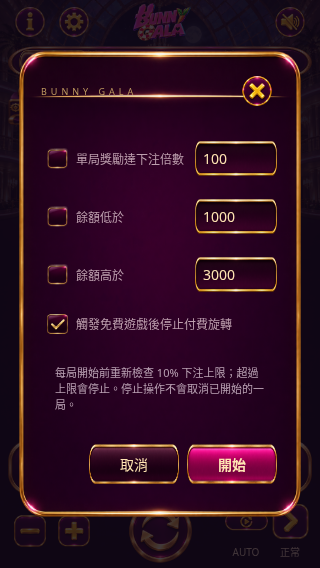
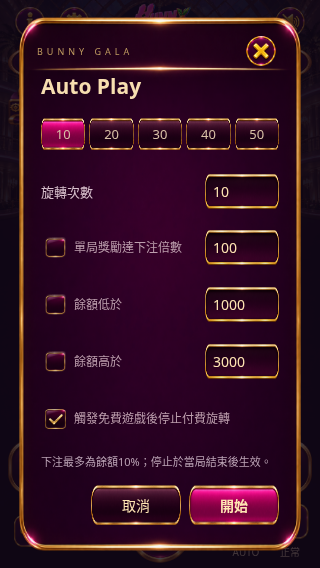
Fit Auto Play settings and actions in one portrait screen

Changed region(s): [[0.0625, 0.0299, 0.9375, 0.7482], [0.0625, 0.7782, 0.9375, 0.9877]]

diff --git a/super-ace-prototype/dist/app.js b/super-ace-prototype/dist/app.js
@@ -18,7 +18,7 @@ function fitAmounts(){for(const amount of $$('.balance-bar strong')){amount.styl
 function update(){document.documentElement.style.setProperty('--motion-scale',durations[speed]);$('#speed').dataset.speed=String(speed);$('#sound').setAttribute('aria-pressed',String(soundOn));const tiers=allowedBets(balance);if(!busy&&!free&&bet>maxBet(balance))bet=tiers.at(-1)||1;$('#balance').textContent=fmt(balance);$('#bet').textContent=fmt(bet);$('#win').textContent=fmt(lastWin);fitAmounts();$('#spin').disabled=busy||free>0||bet>maxBet(balance);$('#spin').classList.toggle('busy',busy);$('#plus').disabled=busy||free>0;$('#minus').disabled=busy||free>0;$('#auto').classList.toggle('on',!!auto);$('#auto small').textContent=auto?String(auto.left):'AUTO';$('#auto').setAttribute('aria-label',auto?'停止自動遊戲':'自動遊戲設定');$('#speed small').textContent=['正常','快速','極速'][speed];$('#speed').setAttribute('aria-label','切換遊戲速度，目前'+['正常','快速','極速'][speed]);$('#speed').classList.toggle('on',speed>0);$('#freePill').hidden=!free;$('#freePill').textContent=`免費 ${free} 次`;$('#modeLabel').textContent=free?'THE CARROT CELEBRATION':'LET THE CARROTS FALL';$('#freeLabel').textContent=free?'FREE GAME · 金色時刻':'1024 WAYS · 金牌連鎖'}
 function setMultiplier(step,isFree){const vals=isFree?FREE_MULTIPLIERS:BASE_MULTIPLIERS;$('#multipliers').innerHTML=vals.map((v,i)=>`<span class="${i===Math.min(step,3)?'active':''}">×${v}</span>`).join('')}
 function save(){localStorage.setItem('gala-carrot-v1',JSON.stringify({balance}))}
-function openModal(html){$('#modalContent').innerHTML=html;if(!$('#modal').open)$('#modal').showModal()}
+function openModal(html){$('#modal').classList.remove('auto-modal');$('#modalContent').innerHTML=html;if(!$('#modal').open)$('#modal').showModal()}
 function close(){if(featureResolver){const r=featureResolver;featureResolver=null;r()}$('#modal').close()}
 $('#closeModal').onclick=close;$('#modal').addEventListener('cancel',()=>{if(featureResolver){const r=featureResolver;featureResolver=null;r()}});$('#modal').addEventListener('click',e=>{if(e.target===$('#modal'))close()});
 function feature(n,extra=false){return new Promise(resolve=>{featureResolver=resolve;openModal(`<div class="feature-carrots">${[1,2,3].map(()=>'<img src="assets/art/carrot-bonus.png" alt="CARROT">').join('')}</div><div class="feature-title">${extra?'＋'+n:n} FREE SPINS</div><p style="text-align:center">${extra?'金蘿蔔再度登場，免費次數已追加。':'三個 CARROT，開啟你的金色時刻。'}<br>免費遊戲倍率：×2、×4、×6、×10</p><div class="btn-row"><button class="btn primary" id="featureGo">${extra?'繼續':'開始免費遊戲'}</button></div>`);$('#featureGo').onclick=close})}
@@ -52,7 +52,7 @@ if(free>0)setTimeout(()=>spin(),400*durations[speed]);else if(auto&&!stopRequest
 $('#spin').onclick=()=>spin();$('#speed').onclick=()=>{speed=(speed+1)%3;update();toast(['正常速度','快速模式','極速模式'][speed]);tone(500+speed*200)};
 function adjust(d){if(busy||free)return;const tiers=allowedBets(balance);let i=tiers.indexOf(bet);let next=tiers[Math.max(0,Math.min(tiers.length-1,i+d))];if(!next){toast('蘿蔔不足以支持最低下注');return}if(d>0&&next===bet)toast(`最高下注 ${fmt(maxBet(balance))} 蘿蔔（餘額的 10%）`);bet=next;update()}
 $('#minus').onclick=()=>adjust(-1);$('#plus').onclick=()=>adjust(1);$('#sound').onclick=()=>{soundOn=!soundOn;$('#sound').textContent=soundOn?'♫':'♩';$('#sound').setAttribute('aria-pressed',String(soundOn));tone();toast(soundOn?'音效開啟':'音效關閉')};
-$('#auto').onclick=()=>{if(auto){auto=null;stopRequested=true;update();toast('本局完成後停止自動旋轉');return}if(busy||free){toast('請等待本局結束');return}openModal(`<h2>Auto Play</h2><p>設定連續旋轉次數及停止條件。</p><div class="chips">${[10,20,30,40,50].map(n=>`<button data-spins="${n}" class="${n===10?'selected':''}">${n}</button>`).join('')}</div><div class="form-row"><span>旋轉次數</span><input id="autoCount" aria-label="自動旋轉次數" type="number" value="10" min="1" max="500"></div><div class="form-row"><label><input id="ratioOn" type="checkbox">單局獎勵達下注倍數</label><input id="ratioVal" aria-label="單局獎勵倍數停止上限" type="number" value="100" min="1"></div><div class="form-row"><label><input id="lowerOn" type="checkbox">餘額低於</label><input id="lowerVal" aria-label="蘿蔔餘額下限" type="number" value="${Math.floor(balance*.5)}" min="0"></div><div class="form-row"><label><input id="upperOn" type="checkbox">餘額高於</label><input id="upperVal" aria-label="蘿蔔餘額上限" type="number" value="${Math.ceil(balance*1.5)}" min="0"></div><div class="form-row"><label><input id="featureOn" type="checkbox" checked>觸發免費遊戲後停止付費旋轉</label></div><div class="modal-note">每局開始前重新檢查 10% 下注上限；超過上限會停止。停止操作不會取消已開始的一局。</div><div class="btn-row"><button class="btn" id="autoCancel">取消</button><button class="btn primary" id="autoStart">開始</button></div>`);$$('[data-spins]').forEach(b=>b.onclick=()=>{$('#autoCount').value=b.dataset.spins;$$('[data-spins]').forEach(n=>n.classList.toggle('selected',n===b))});$('#autoCancel').onclick=close;$('#autoStart').onclick=()=>{const count=Number($('#autoCount').value);if(!Number.isInteger(count)||count<1||count>500){toast('請輸入 1–500 次');return}const num=s=>Number($(s).value);if(['#ratioVal','#lowerVal','#upperVal'].some(s=>!Number.isFinite(num(s))||num(s)<0)){toast('停止條件請輸入有效數值');return}auto={left:count,ratio:$('#ratioOn').checked?num('#ratioVal'):Infinity,lower:$('#lowerOn').checked?num('#lowerVal'):-Infinity,upper:$('#upperOn').checked?num('#upperVal'):Infinity,onFeature:$('#featureOn').checked};if(auto.lower>=auto.upper){toast('下限須低於上限');return}close();spin()}};
+$('#auto').onclick=()=>{if(auto){auto=null;stopRequested=true;update();toast('本局完成後停止自動旋轉');return}if(busy||free){toast('請等待本局結束');return}openModal(`<h2>Auto Play</h2><p>設定連續旋轉次數及停止條件。</p><div class="chips">${[10,20,30,40,50].map(n=>`<button data-spins="${n}" class="${n===10?'selected':''}">${n}</button>`).join('')}</div><div class="form-row"><span>旋轉次數</span><input id="autoCount" aria-label="自動旋轉次數" type="number" value="10" min="1" max="500"></div><div class="form-row"><label><input id="ratioOn" type="checkbox">單局獎勵達下注倍數</label><input id="ratioVal" aria-label="單局獎勵倍數停止上限" type="number" value="100" min="1"></div><div class="form-row"><label><input id="lowerOn" type="checkbox">餘額低於</label><input id="lowerVal" aria-label="蘿蔔餘額下限" type="number" value="${Math.floor(balance*.5)}" min="0"></div><div class="form-row"><label><input id="upperOn" type="checkbox">餘額高於</label><input id="upperVal" aria-label="蘿蔔餘額上限" type="number" value="${Math.ceil(balance*1.5)}" min="0"></div><div class="form-row"><label><input id="featureOn" type="checkbox" checked>觸發免費遊戲後停止付費旋轉</label></div><div class="modal-note">下注最多為餘額10%；停止於當局結束後生效。</div><div class="btn-row"><button class="btn" id="autoCancel">取消</button><button class="btn primary" id="autoStart">開始</button></div>`);$('#modal').classList.add('auto-modal');$$('[data-spins]').forEach(b=>b.onclick=()=>{$('#autoCount').value=b.dataset.spins;$$('[data-spins]').forEach(n=>n.classList.toggle('selected',n===b))});$('#autoCancel').onclick=close;$('#autoStart').onclick=()=>{const count=Number($('#autoCount').value);if(!Number.isInteger(count)||count<1||count>500){toast('請輸入 1–500 次');return}const num=s=>Number($(s).value);if(['#ratioVal','#lowerVal','#upperVal'].some(s=>!Number.isFinite(num(s))||num(s)<0)){toast('停止條件請輸入有效數值');return}auto={left:count,ratio:$('#ratioOn').checked?num('#ratioVal'):Infinity,lower:$('#lowerOn').checked?num('#lowerVal'):-Infinity,upper:$('#upperOn').checked?num('#upperVal'):Infinity,onFeature:$('#featureOn').checked};if(auto.lower>=auto.upper){toast('下限須低於上限');return}close();spin()}};
 const rules=`<h3>怎樣中獎？</h3><p>盤面為 5 列 × 4 行，共 1024 ways。相同符號由最左列開始，連續出現在至少 3 列即可中獎，不需要同一行。各列可用位置數相乘，就是中獎 ways。</p><h3>金牌及 WILD</h3><p>金牌只會出現在第 2–4 列。金牌參與中獎後轉成天使或惡魔 WILD。WILD 可替代普通符號，不能替代 CARROT。惡魔會將第 2–5 列的 1–4 個合資格普通牌位轉為惡魔 WILD；不取代 CARROT 或已有 WILD。</p><h3>消除與倍率</h3><p>中獎普通牌消除，新牌由上方落入原空位。未中獎牌留在原位。普通遊戲倍率依序 ×1、×2、×3、×5；下一次付費旋轉重置。</p><h3>CARROT 與免費遊戲</h3><p>同一盤面有 3 個或以上 CARROT，獲得 10 次免費遊戲；免費遊戲中再出現 3 個或以上，加 5 次。免費倍率為 ×2、×4、×6、×10。同一次旋轉只發放一次 CARROT 獎勵，避免保留符號重複觸發。</p><h3>蘿蔔與下注</h3><p>每次付費下注最多為當時餘額的 10%。免費遊戲沿用觸發局下注額，不扣蘿蔔。Auto 每次開始前重新檢查上限。</p><p class="modal-note">私人試玩版：測試蘿蔔只保存在此瀏覽器，不能充值、兌現或轉移。隨機權重及賠付表未作商用數學校準；不代表 JILI 原版的 RTP 或派彩分佈。</p>`;
 function help(tab='rules'){openModal(`<h2>玩法與計算</h2><div class="tabs"><button id="rulesTab" class="${tab==='rules'?'active':''}">玩法</button><button id="payTab" class="${tab==='pay'?'active':''}">賠付與例子</button></div>${tab==='rules'?rules:`<p class="modal-note">以下為目前試玩參考表，尚未確認為 JILI 官方遊戲內賠付表。數值以本版本下注單位計算，不宣稱精確復刻。</p><table><thead><tr><th>符號</th><th>3列</th><th>4列</th><th>5列</th></tr></thead><tbody>${Object.entries(DEFAULT_PAYTABLE).map(([s,v])=>`<tr><td>${suits[s]||s}</td>${v.map(n=>`<td>×${n}</td>`).join('')}</tr>`).join('')}</tbody></table><h3>計算方法</h3><p>同符號獎勵＝賠付值 × 中獎 ways × 下注額 × 當前倍率。多種符號中獎分別計算再相加，金額以兩位小數記錄。</p><p>例：下注 20、A 連續 3 列各有 1、2、1 個可用位置，ways＝1×2×1＝2。當前倍率 ×2，獎勵＝0.5×2×20×2＝40 蘿蔔。</p><p>參考：<a href="https://jiligames.com/PlusIntro/49?showGame=false" target="_blank" rel="noopener">JILI 原版介紹</a>。</p>`}<div class="btn-row"><button class="btn" id="replayTutorial">重看教學</button><button class="btn primary" id="helpDone">明白</button></div>`);$('#rulesTab').onclick=()=>help('rules');$('#payTab').onclick=()=>help('pay');$('#helpDone').onclick=close;$('#replayTutorial').onclick=()=>tutorial(0)}
 $('#help').onclick=()=>help();$('#settings').onclick=()=>{openModal(`<h2>你的遊戲節奏</h2><p>隨時調整速度，派牌結果不會因此改變。</p><div class="chips">${['正常','快速','極速'].map((s,i)=>`<button data-speed="${i}" class="${i===speed?'selected':''}">${s}</button>`).join('')}</div><div class="form-row"><label><input type="checkbox" id="soundCheck" ${soundOn?'checked':''}>遊戲音效</label></div><p class="modal-note">下注最多為蘿蔔餘額的10%。試玩餘額保存在此瀏覽器。</p><div class="btn-row"><button class="btn" id="resetTestBalance">重設蘿蔔</button><button class="btn primary" id="settingsDone">完成</button></div>`);$$('[data-speed]').forEach(b=>b.onclick=()=>{speed=Number(b.dataset.speed);$$('[data-speed]').forEach(n=>n.classList.toggle('selected',n===b));update()});$('#soundCheck').onchange=e=>{soundOn=e.target.checked;update();tone()};$('#settingsDone').onclick=close;$('#resetTestBalance').onclick=resetPlaytest};

diff --git a/super-ace-prototype/dist/portrait.css b/super-ace-prototype/dist/portrait.css
@@ -114,3 +114,17 @@ table{font-size:12px}th,td{padding:8px 4px}
 .reward-amount{display:flex;align-items:center;justify-content:center;gap:6px;text-align:center;font-size:clamp(22px,7vw,32px);color:#f8dba2;font-variant-numeric:tabular-nums;overflow-wrap:anywhere}
 .reward-amount .currency-inline{flex-shrink:0}
 .chips button.selected,.tabs button.active{background-repeat:no-repeat;background-position:center}
+/* Auto settings fit the minimum supported portrait height, including both actions. */
+dialog.auto-modal{height:min(94dvh,540px);padding:20px 18px}
+.auto-modal .modal-head{height:28px;margin-bottom:8px}
+.auto-modal #modalContent{display:flex;flex-direction:column;justify-content:space-between;gap:4px;padding:0 4px 4px}
+.auto-modal #modalContent>*{flex-shrink:0}
+.auto-modal h2{font-size:21px;line-height:1.25;margin:0}
+.auto-modal #modalContent>p{display:none}
+.auto-modal .chips{display:grid;grid-template-columns:repeat(5,minmax(0,1fr));gap:4px;height:44px;margin:0}
+.auto-modal .chips button{min-width:0;min-height:44px;width:100%;padding:0;font-size:13px}
+.auto-modal .form-row{min-height:44px;margin:0;gap:4px}
+.auto-modal .form-row label{min-height:44px;font-size:12px;line-height:1.3}
+.auto-modal .form-row input[type=number]{width:74px;min-height:44px}
+.auto-modal .modal-note{padding:0;margin:0;font-size:11px;line-height:1.5}
+.auto-modal .btn-row{margin:0;min-height:44px}

diff --git a/super-ace-prototype/dist/index.html b/super-ace-prototype/dist/index.html
@@ -3,7 +3,7 @@
 <head>
 <meta charset="utf-8"><meta name="viewport" content="width=device-width,initial-scale=1,viewport-fit=cover">
 <meta name="theme-color" content="#180d1b"><title>Bunny Gala · CARROT</title>
-<link rel="stylesheet" href="style.css"><link rel="stylesheet" href="art-style.css"><link rel="stylesheet" href="cards-art.css"><link rel="stylesheet" href="portrait.css">
+<link rel="stylesheet" href="style.css"><link rel="stylesheet" href="art-style.css"><link rel="stylesheet" href="cards-art.css"><link rel="stylesheet" href="portrait.css?v=portrait-20261107-2">
 </head>
 <body>
 <div class="ambient" aria-hidden="true"></div>
@@ -28,6 +28,6 @@
 </main>
 <dialog id="modal"><div class="modal-head"><span class="eyebrow">BUNNY GALA</span><button id="closeModal" aria-label="關閉">×</button></div><div id="modalContent"></div></dialog>
 <div class="toast" id="toast" role="status"></div>
-<script type="module" src="app.js?v=portrait-20261107"></script>
+<script type="module" src="app.js?v=portrait-20261107-2"></script>
 </body>
 </html>

diff --git a/ART/SuperAce/07_Independent_Art/IMPLEMENTATION.md b/ART/SuperAce/07_Independent_Art/IMPLEMENTATION.md
@@ -12,7 +12,7 @@
 
 Chromium瀏覽器檢查320×568、360×640、375×667、390×701、390×844、430×932：20個牌位保持625:835；所有核心按鈕至少44px且在可視區域內，中心可點擊；頁面無水平／垂直捲動。另驗證123,456,789.12的大額餘額不溢出。
 
-教學4步、賠率表、三段速度、音效狀態同步、自動旋轉、獎勵確認、零餘額後於設定重設試玩均已檢查。長說明與設定可在彈窗內捲動，主遊戲舞台不捲動。7項引擎測試通過。
+教學4步、賠率表、三段速度、音效狀態同步、自動旋轉、獎勵確認、零餘額後於設定重設試玩均已檢查。AUTO的全部停止條件、開始與取消已在上述六尺寸同屏驗證，不需捲動；長玩法說明可在彈窗內捲動，主遊戲舞台不捲動。7項引擎測試通過。
 
 UI以獨立PNG為主體。SVG保留嵌入的原始PNG，外框按容器排版；牌面比例另外固定。修正原素材顯示視窗留白造成的錯位，以及選項背景重複平鋪、預設數字／圖示與動態文字重疊。發牌起點按各出口位置計算，動畫時間依速度同步。
 

diff --git a/super-ace-prototype/README.md b/super-ace-prototype/README.md
@@ -1,6 +1,6 @@
 # Bunny Gala · CARROT 直屏試玩版
 
-目前只做直屏，所有核心資訊與操作固定在同一屏幕內。牌面保持625:835；彈窗可獨立捲動。使用Bunny Gala去背版、原卡背及原有蘿蔔貨幣，沒有雙旗或網站頁尾。
+目前只做直屏，所有核心資訊與操作固定在同一屏幕內；AUTO全部條件與操作亦能同屏顯示。牌面保持625:835；彈窗可獨立捲動。使用Bunny Gala去背版、原卡背及原有蘿蔔貨幣，沒有雙旗或網站頁尾。
 
 ```sh
 python -m http.server 4173 --directory dist
